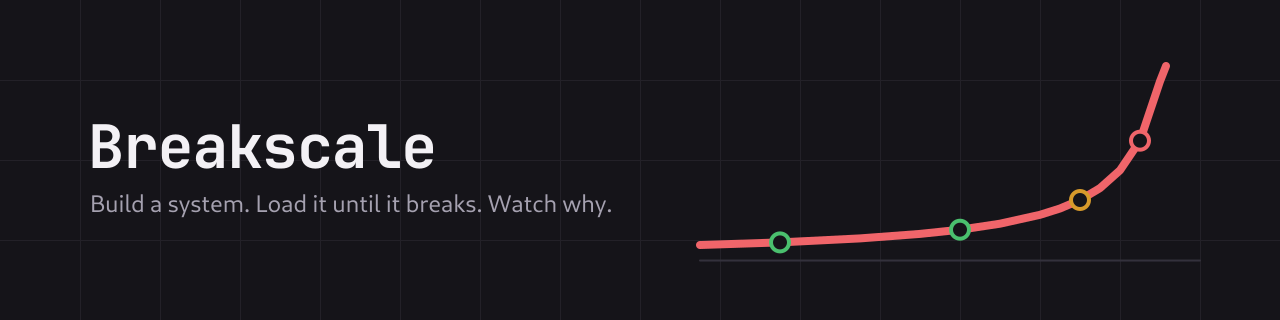
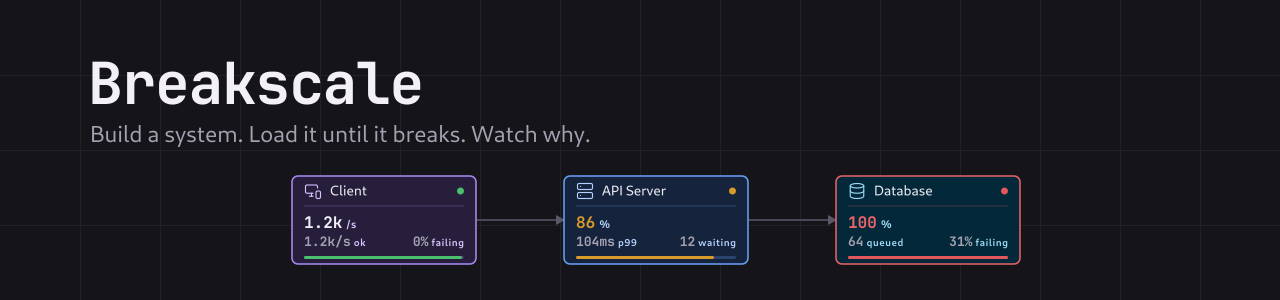
feat: art drawn the way the canvas draws a system

Changed region(s): [[0.0625, 0.18, 0.9375, 0.9], [0.0625, 0.39, 0.4688, 0.54], [0.0625, 0.18, 0.3438, 0.36]]

diff --git a/TODO.md b/TODO.md
@@ -14,7 +14,7 @@
       name the host, so doing them twice is wasted. Domain first.
 - [x] Logo + favicon
 - [x] OG image
-- [ ] README banner + screenshots
+- [x] README banner (screenshots still to come)
 - [x] Seed 5-10 good-first-issues
 - [x] Enable Discussions
 - [ ] Delete TODO.md
@@ -33,7 +33,8 @@
       image, favicon and logo, so running it against the code-drawn
       placeholders would just generate findings that the real assets fix.
 - [ ] Replace the generated art with custom OG image, favicon and logo
-      Hand-made, not drawn in code. The current ones are generic.
+      Redrawn in code around the knee curve, derived from M/M/1 rather than
+      styled by eye. Keep if it holds up, otherwise hand-make.
 - [ ] Screenshots for the README (a retry storm collapsing is the one to get)
 - [ ] Per-example pages
 - [x] llms.txt
